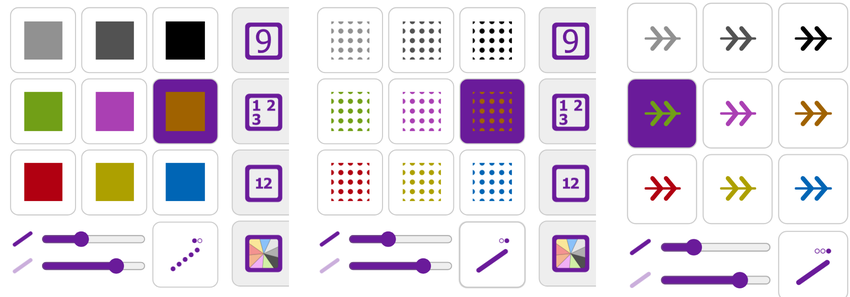
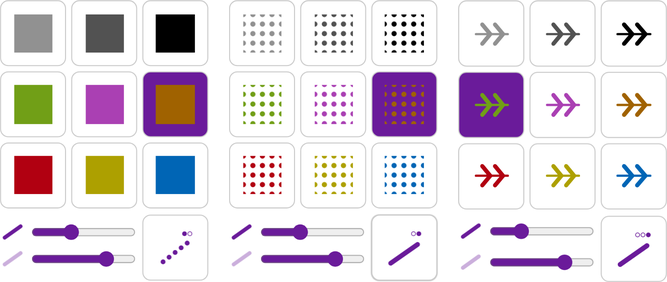
Site: recrop the pen pages picture and show edge marks on the details page
Closes #83

diff --git a/site/pen-tool-extras.html b/site/pen-tool-extras.html
@@ -30,12 +30,12 @@
     <li><strong>Right click goes backwards:</strong> on an edge or a corner it steps the cycle back.</li>
   </ul>
   <figure>
-    <img class="wide" src="https://raw.githubusercontent.com/caneff/sudokupad-scripts/main/docs/research/pen-tool-extras-pages.png" alt="The pen panel on page 1 with solid pens, page 2 with dotted pens and page 3 with chevron pens" width="850" height="297">
+    <img class="wide" src="https://raw.githubusercontent.com/caneff/sudokupad-scripts/main/docs/research/pen-tool-extras-pages.png" alt="The pen panel on page 1 with solid pens, page 2 with dotted pens and page 3 with chevron pens" width="667" height="282">
     <figcaption>The pen panel on pages 1, 2 and 3.</figcaption>
   </figure>
   <figure>
-    <img src="https://raw.githubusercontent.com/caneff/sudokupad-scripts/main/docs/research/pen-tool-extras-corners-grid.png" alt="Colored X and circle marks on grid corners" width="667" height="667">
-    <figcaption>Grid-corner marks.</figcaption>
+    <img src="https://raw.githubusercontent.com/caneff/sudokupad-scripts/main/docs/research/site-pen-tool-extras.png" alt="Colored pen lines, with an X, direction arrows and a circle marked on a cell edge" width="506" height="435">
+    <figcaption>Pen lines and edge marks.</figcaption>
   </figure>
 
   <h2>Good to know</h2>
